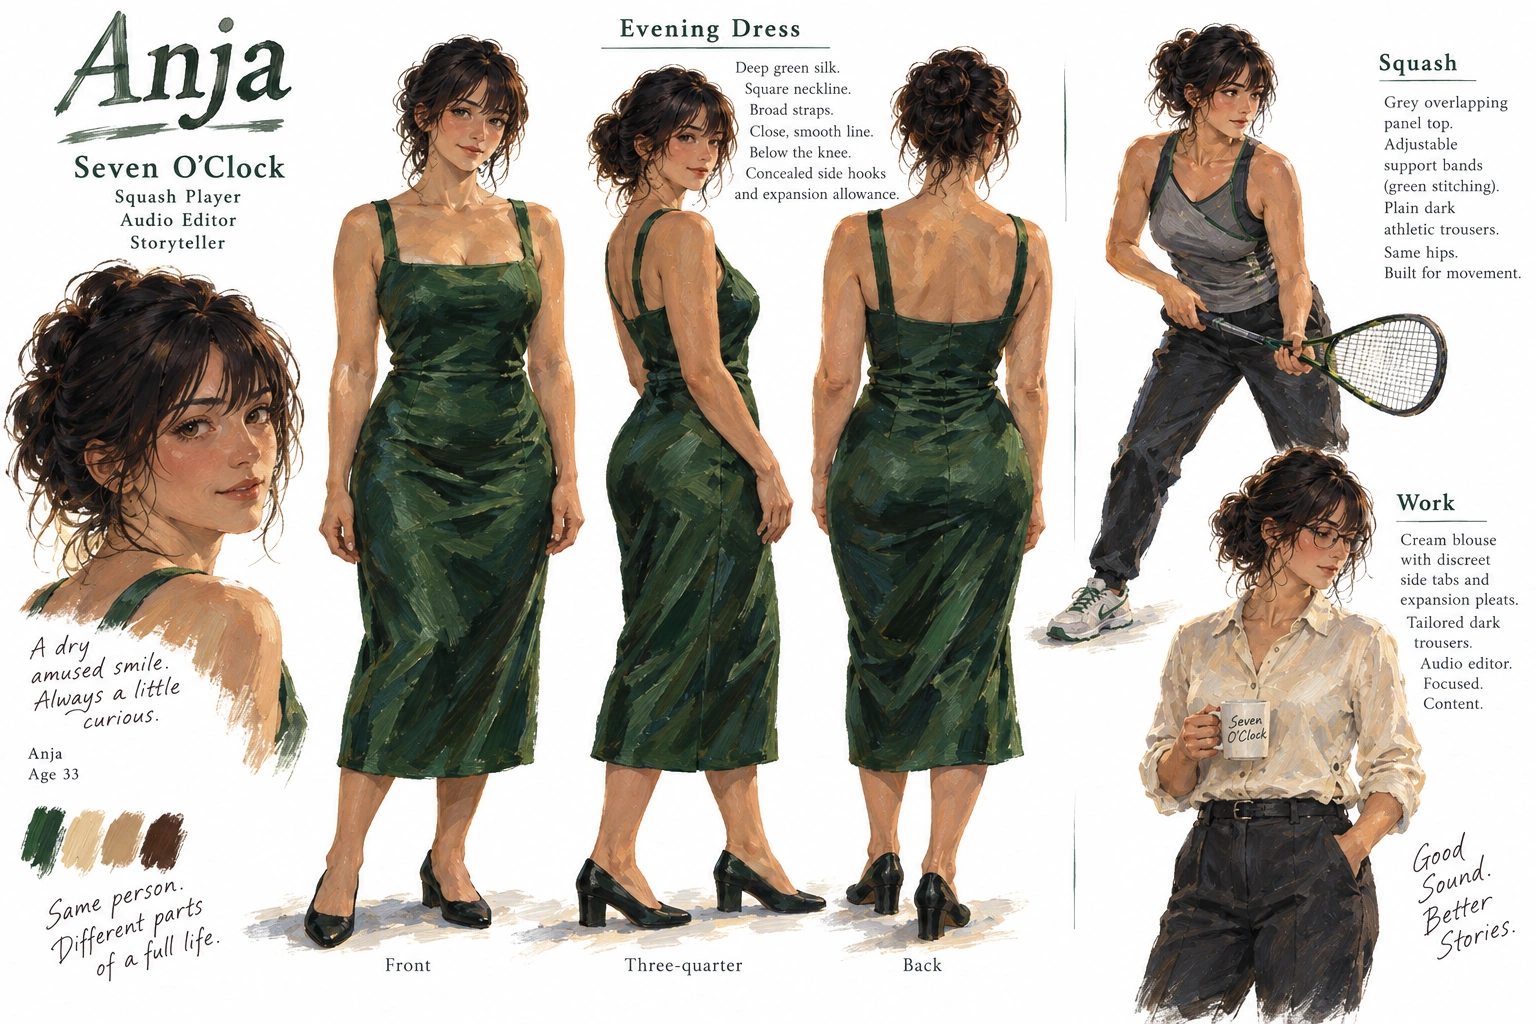
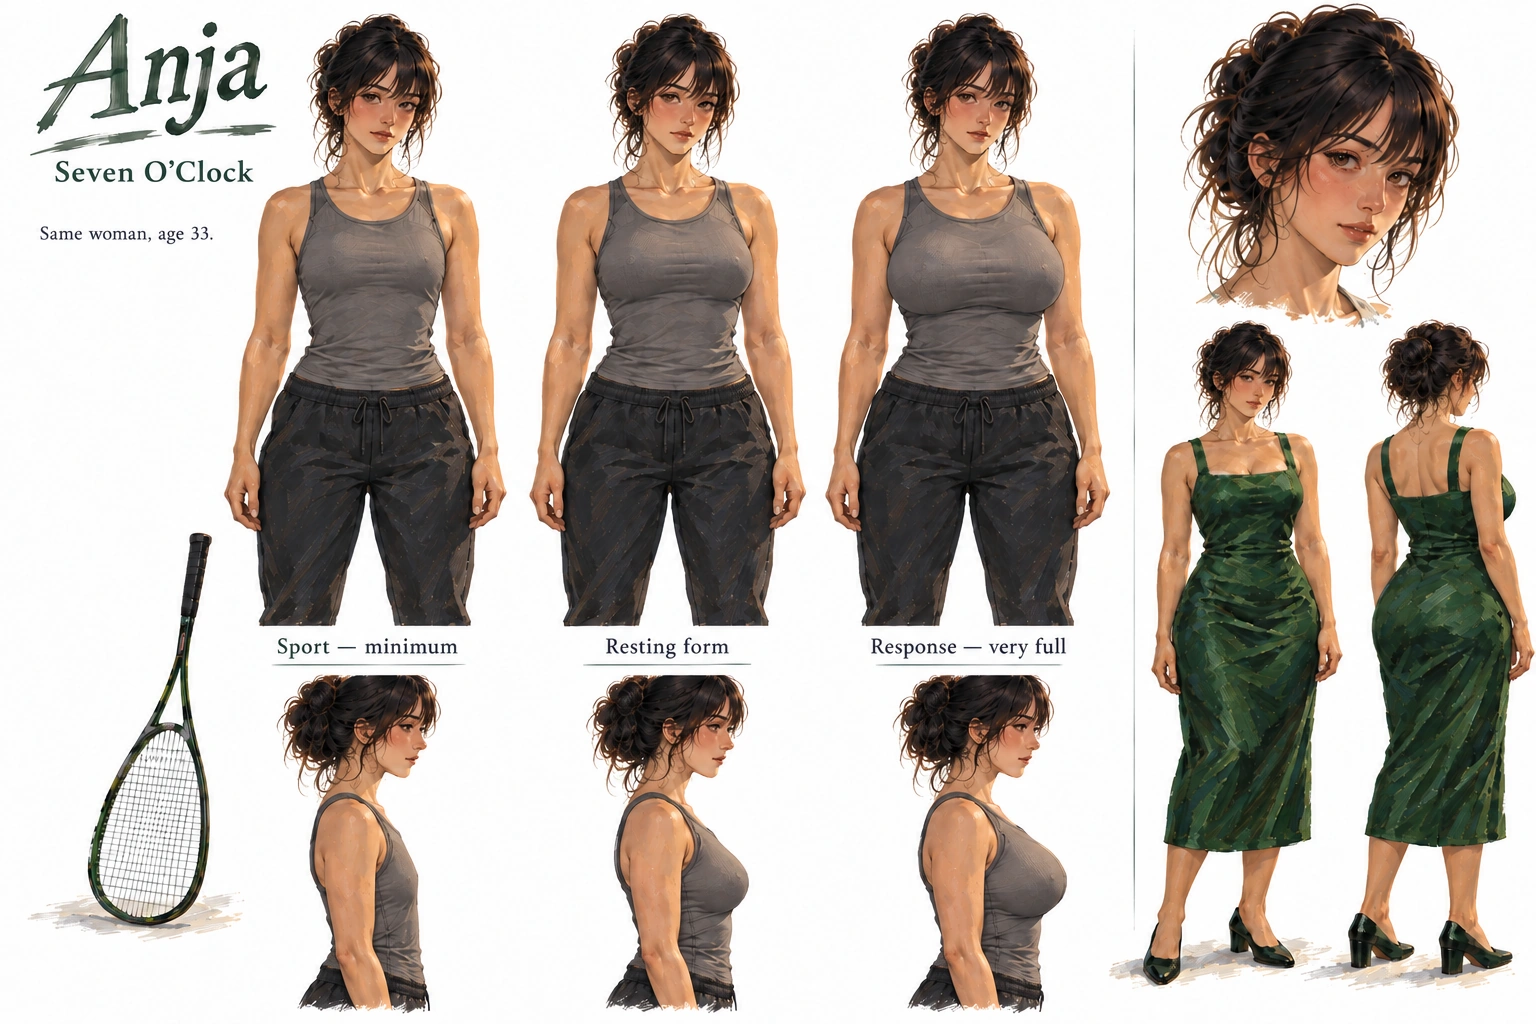
Show Anja's broad range in matched character studies

diff --git a/stories/room-to-move/notes.md b/stories/room-to-move/notes.md
@@ -13,3 +13,5 @@ Fresh final first effects: new Codex cared about “food, sustained attention, a
 Final local repairs clarified the handprints under overhead light, distinguished the comic blouse pleat from the quiet gown allowance, removed the explanatory walk-time coda and defensive permission phrase, and replaced the opaque hunger joke with eating the flowers. The racquet/strings innuendo and its reply were removed together, preserving the direct adult invitation. After the fade, Anja lets the quick response settle toward her own months-maintained resting fullness before moving Otis's arm and reclaiming the pillow. Writer and both fresh readers responded to this proposal, then read the entire edited context. Both found the repairs worked and no new material issue. Claude's final suggestion of more sensory vocabulary was explicitly taste; the coordinator retained clarity between rapid response and maintained form. After its own whole reread, the coordinator judged the prose ready: daily tasks establish attachment, the laugh pays off in attention, attraction complicates rather than dictates choice, the dress loses a specific pleasure, and companionship remains ordinarily imperfect. Adult ages, names, timing, clothing, flowers, preview and point dispute were checked. No shared fact conflict or canon promotion.
 
 Art followed prose readiness. Built-in imagegen made separate plain-white multi-view sheets for Anja and Otis, then oils of the club/counter, two-room studio, dressmaker, dumpling shop and flat's kitchen/bedroom. The supplied original informs Anja's identity; the inspected *Apple Orchard Hillside* supplies Group of Seven oil direction. Otis's initially excessive beard and the shop's omitted privacy screen were corrected. Accepted references were complete and inspected before the cover used both sheets, the corrected shop and the supplied original. The cover's exact title, identities, dress, room and coherent props were inspected, then its native portrait was exported as an 864×1536 JPEG and inspected again. Only accepted final assets are in the package; candidates and exact generation prompts remain under worktree tmp/. The finished prose and clothed cover are rated together as Mature in ratings.md: adult sensuality and implied consensual sex, with activity fading to black. The requested ceiling does not make the actual work Explicit.
+
+Art follow-up, 2026-10-14: the user correctly found that Anja's sheet understated the original's broad range. Its sports study remained visibly full and its main views emphasized outfits. The replacement uses matched front and profile comparisons in the same grey top: nearly flat sporting reduction, intermediate resting form, and a very full response matching the supplied spectrum. A second pixel correction flattened the minimum profile to agree with its front. Face, adult age, hair and months-maintained hips stay consistent; full-length green-dress views and a face study retain character-sheet usefulness. The saved WebP was inspected against the supplied original and existing cover; the cover matches the fuller response and established identity. Prose and cover require no change, and the Mature rating remains applicable. Superseded sheets and exact edit prompts stay in worktree tmp/; only the corrected anja.webp replaces the accepted package asset.

diff --git a/stories/room-to-move/prompt.md b/stories/room-to-move/prompt.md
@@ -28,4 +28,8 @@ This clarification refers to the coordinator's phrase "a man whose own wardrobe 
 
 # Production direction
 
+Subsequent art feedback, verbatim: i think the character references miss the point; look at the original reference image for what i meant by wildly differences.
+
+The revised character sheet should make the supplied original's broad range immediately visible: the same adult woman, recognizable face and consistent poses/clothing, from nearly flat sporting reduction to a distinctly full resting shape and very full involuntary response. Rapid chest changes retain her months-maintained hip proportions.
+
 The subsequent direction requests the maximum rating and an adult treatment including sex, with one woman's ordinary day carrying the sports, adaptive fashion, and dating material. Rate the actual finished content after review; shared LOCKED boundaries still require unambiguously adult intimate participants and sexual activity to fade to black. Sport should demonstrate deliberate reduction of breast volume and weight for movement. Develop the speculative biology through lived choices, fashion, and etiquette. The supplied reference can inform the principal woman's identity and appearance.
